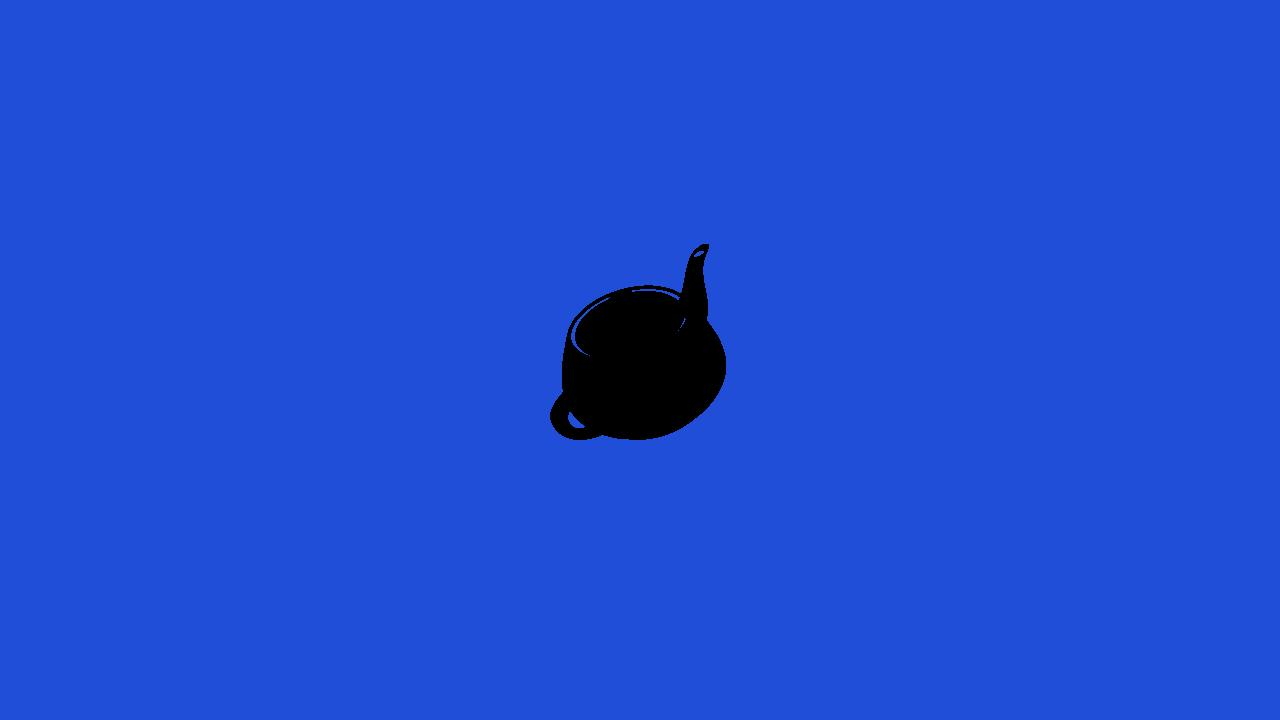
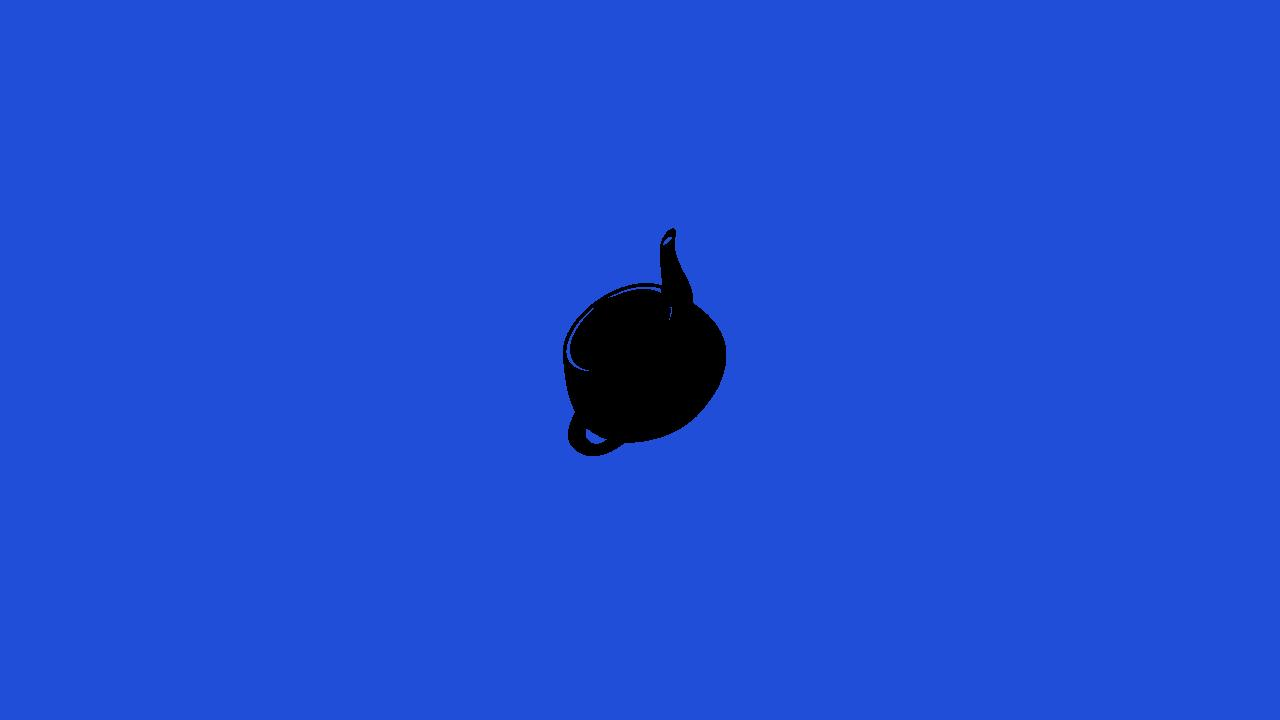
capture visual tests at frame 3 instead of frame 2
Move the SaveCapture -> Assert -> Pop cycle from frame 2 to frame 3 of each SceneTest's Update. Adjusting the frame alone broke ModelTest's run-to-run determinism: every SceneTest subscribes its own OnDesactivatingScene handler to the single ScreenContextManager singleton, so the previous \if (scene is SceneTest)\ check fired for EVERY subscribed handler when one scene deactivated, decrementing s_activeSceneTestCount multiple times at once. That made SceneTest.IsAnyActive() return false too early, so MyApplication.UpdateFrame fell back to the real Stopwatch delta (~13 ms, variable) instead of the fixed 1/60 s step on the test scenes' later frames. At frame 2 the accumulated drift was small enough that JPEG (quality 75, via Evergine.Assets.TextureExtension.SaveToFile -> SkiaSharp SKEncodedImageFormat 3) happened to produce byte-identical captures across runs, but at frame 3 the drift became visible and ModelTest-expected.png varied byte-for-byte between regen runs. Narrowing the guard to \if (scene == this)\ ensures the counter drops by exactly one per deactivating scene (the instance whose scene matches), so the fixed 1/60 s step now persists for every scene living on the stack while ModelTest is active, and frame 3 becomes byte-deterministic again. Regenerate ModelTest-expected.png (8887 -> 8965 bytes) with the deterministic frame-3 output. Verified: 5 consecutive regen runs produced the same MD5 (9A044DD28C4E19BE412F63DFBAA4753B), and 3 normal-mode launches passed Equal
[…]

Changed region(s): [[0.4062, 0.3056, 0.5625, 0.6417], [0.5625, 0.4583, 0.5938, 0.4889], [0.5312, 0.55, 0.5625, 0.5806]]

diff --git a/Evergine.VisualTests/SceneTest.cs b/Evergine.VisualTests/SceneTest.cs
@@ -45,7 +45,7 @@ namespace Evergine.VisualTests
 
         private void OnDesactivatingScene(Scene scene)
         {
-            if (scene is SceneTest)
+            if (scene == this)
             {
                 s_activeSceneTestCount--;
             }
@@ -77,7 +77,7 @@ namespace Evergine.VisualTests
             base.Update(gameTime);
             frameCount++;
 
-            if (frameCount == 2)
+            if (frameCount == 3)
             {
                 this.SaveCapture();
                 if (!IsRegenerateMode())

diff --git a/README.md b/README.md
@@ -19,7 +19,7 @@ The goal? A public NuGet package (similar to Evergine.Mocks) which anyone can ad
 
 The test framework exposes three base classes:
 
-- `SceneTest`: base of all tests. Sets up a 1280x720 camera, lets each test build its scene with `ArrangeActScene(Entity)`, and at frame 2 runs the `SaveCapture()` → `Assert()` → `Pop()` cycle.
+- `SceneTest`: base of all tests. Sets up a 1280x720 camera, lets each test build its scene with `ArrangeActScene(Entity)`, and at frame 3 runs the `SaveCapture()` → `Assert()` → `Pop()` cycle.
 - `VisualTest`: a test that compares an image capture against a reference (`-expected.png`). Use this for appearance checks; `Assert()` calls `EqualImages()`.
 - `NonVisualTest`: a test that validates data or compute without capturing or comparing images.
 
@@ -29,7 +29,7 @@ In `Debug` builds, the launcher pushes every test before loading `MyScene`, so v
 
 #### Time-dependent tests
 
-`ModelTest` (and any other test with time-driven animation) is captured at frame 2 of its scene. To keep the captured sprite's angle identical run-to-run, `MyApplication.UpdateFrame` feeds those test scenes a fixed 1/60 s step (defined as `SceneTest.FixedTimeStep` in `Evergine.VisualTests`) instead of the real frame delta measured by the `Stopwatch` in `ProjectKristal.Windows/Program.cs`. The fixed step applies **only while at least one `SceneTest` is alive** (tracked by a static counter incremented in the `SceneTest` constructor and decremented on `ScreenContextManager.OnDesactivatingScene`); when the last test is popped, production `MyScene` resumes with real elapsed time, so its animation is unaffected. See `openspec/changes/fixed-gametime-in-tests/design.md` for the rationale of this host-level guard.
+`ModelTest` (and any other test with time-driven animation) is captured at frame 3 of its scene. To keep the captured sprite's angle identical run-to-run, `MyApplication.UpdateFrame` feeds those test scenes a fixed 1/60 s step (defined as `SceneTest.FixedTimeStep` in `Evergine.VisualTests`) instead of the real frame delta measured by the `Stopwatch` in `ProjectKristal.Windows/Program.cs`. The fixed step applies **only while at least one `SceneTest` is alive** (tracked by a static counter incremented in the `SceneTest` constructor and decremented on `ScreenContextManager.OnDesactivatingScene`); when the last test is popped, production `MyScene` resumes with real elapsed time, so its animation is unaffected. See `openspec/changes/fixed-gametime-in-tests/design.md` for the rationale of this host-level guard.
 
 ### Regenerating reference screenshots
 
